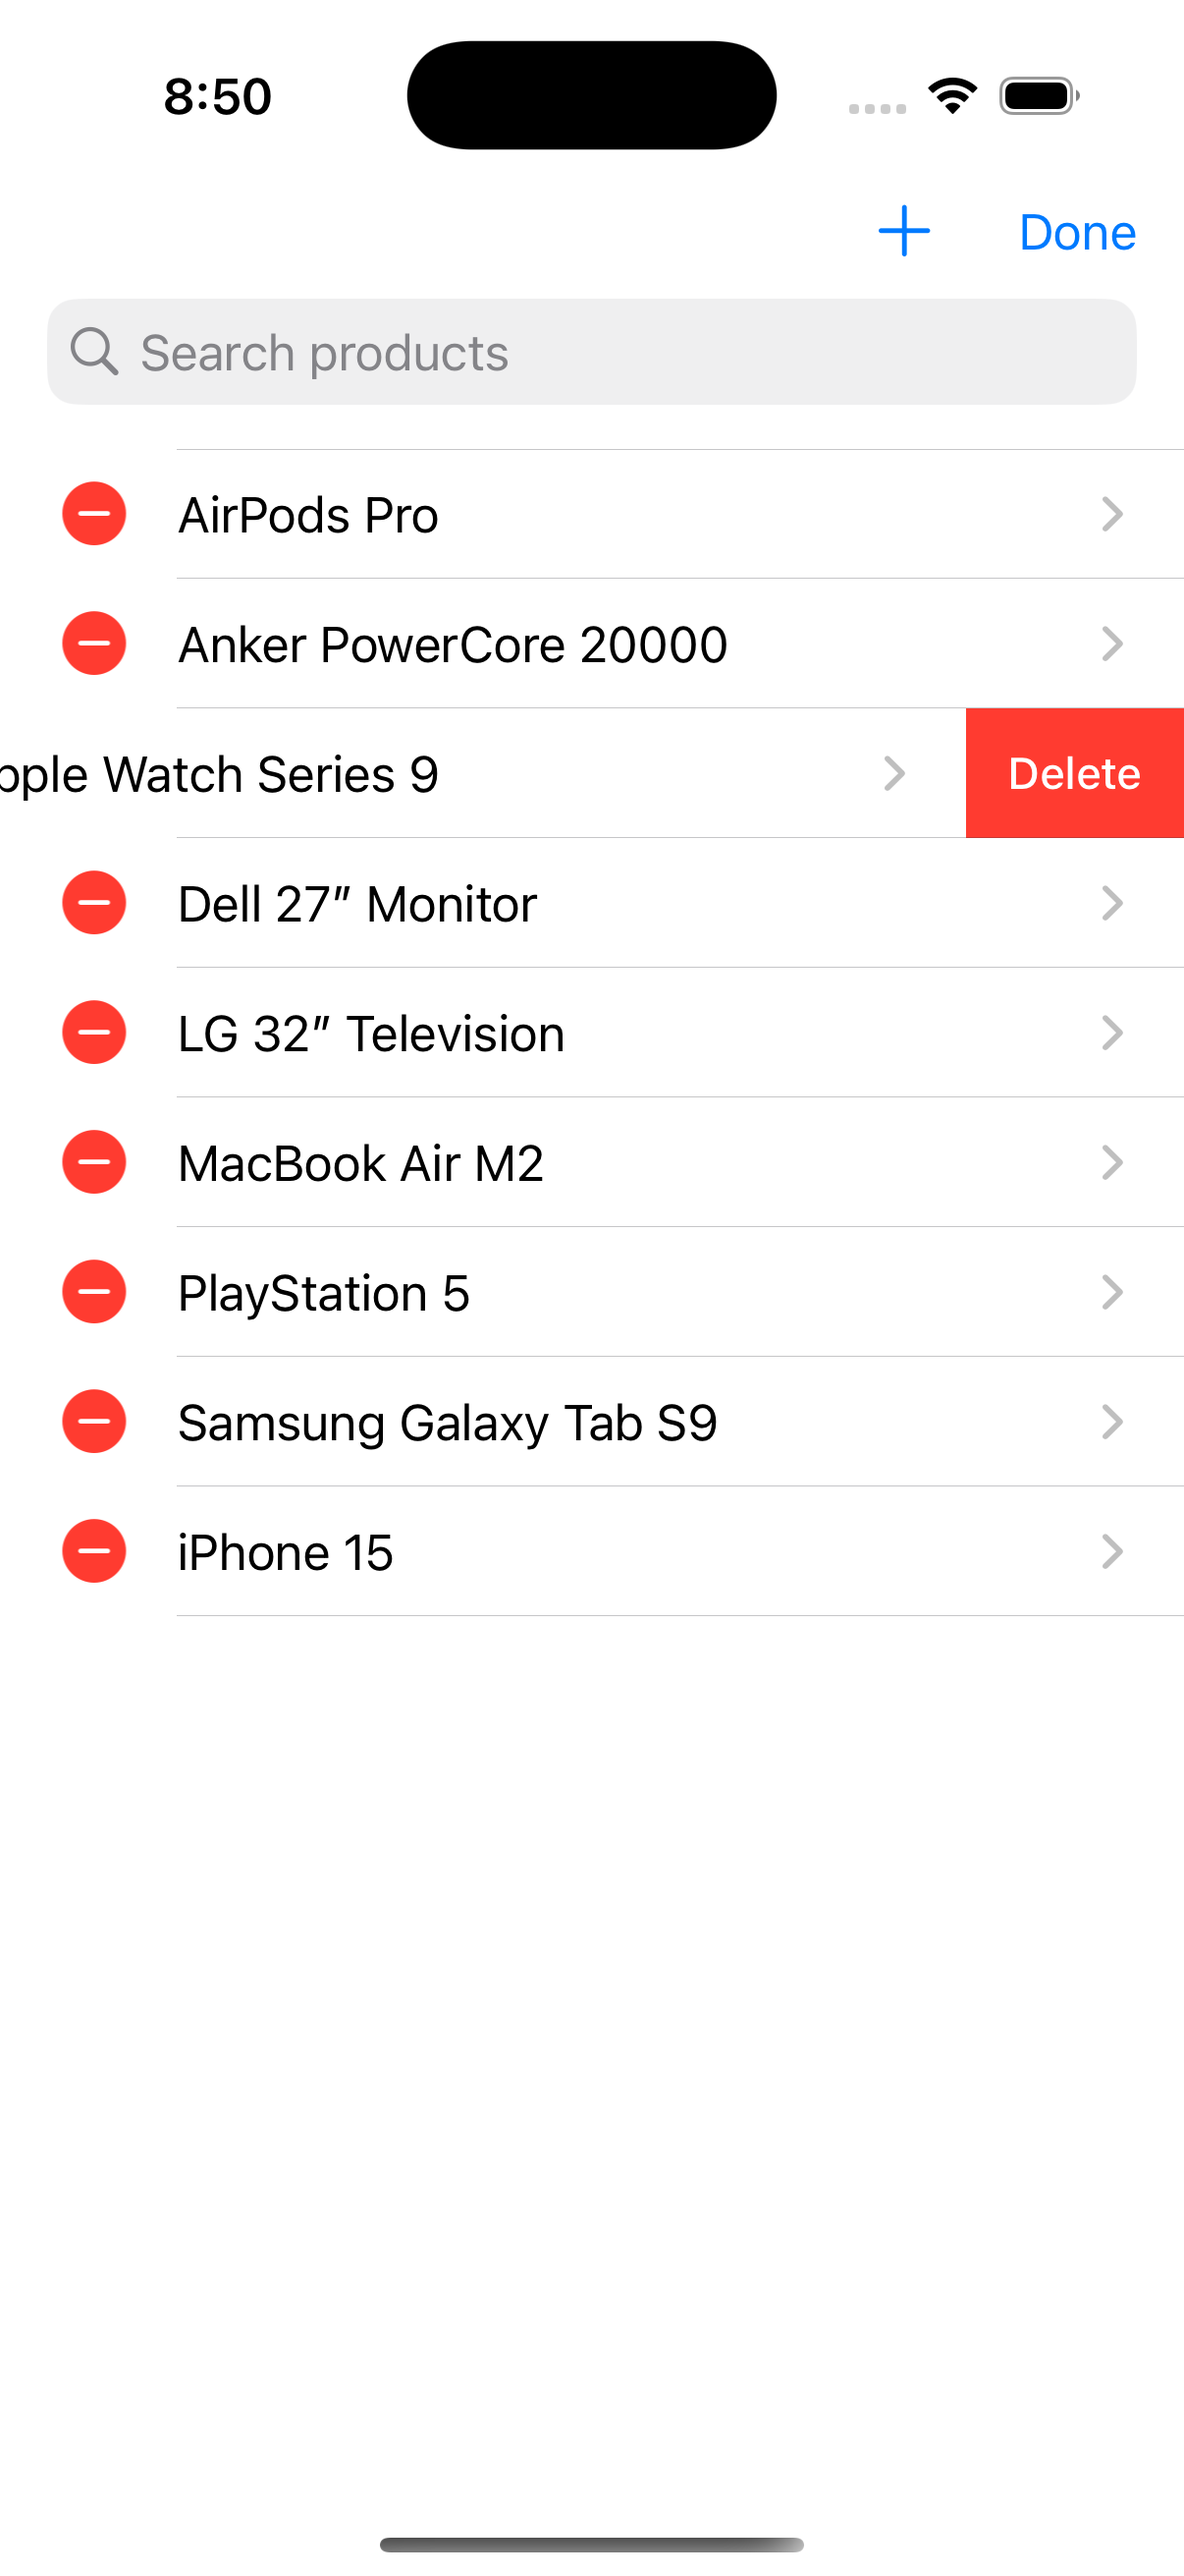
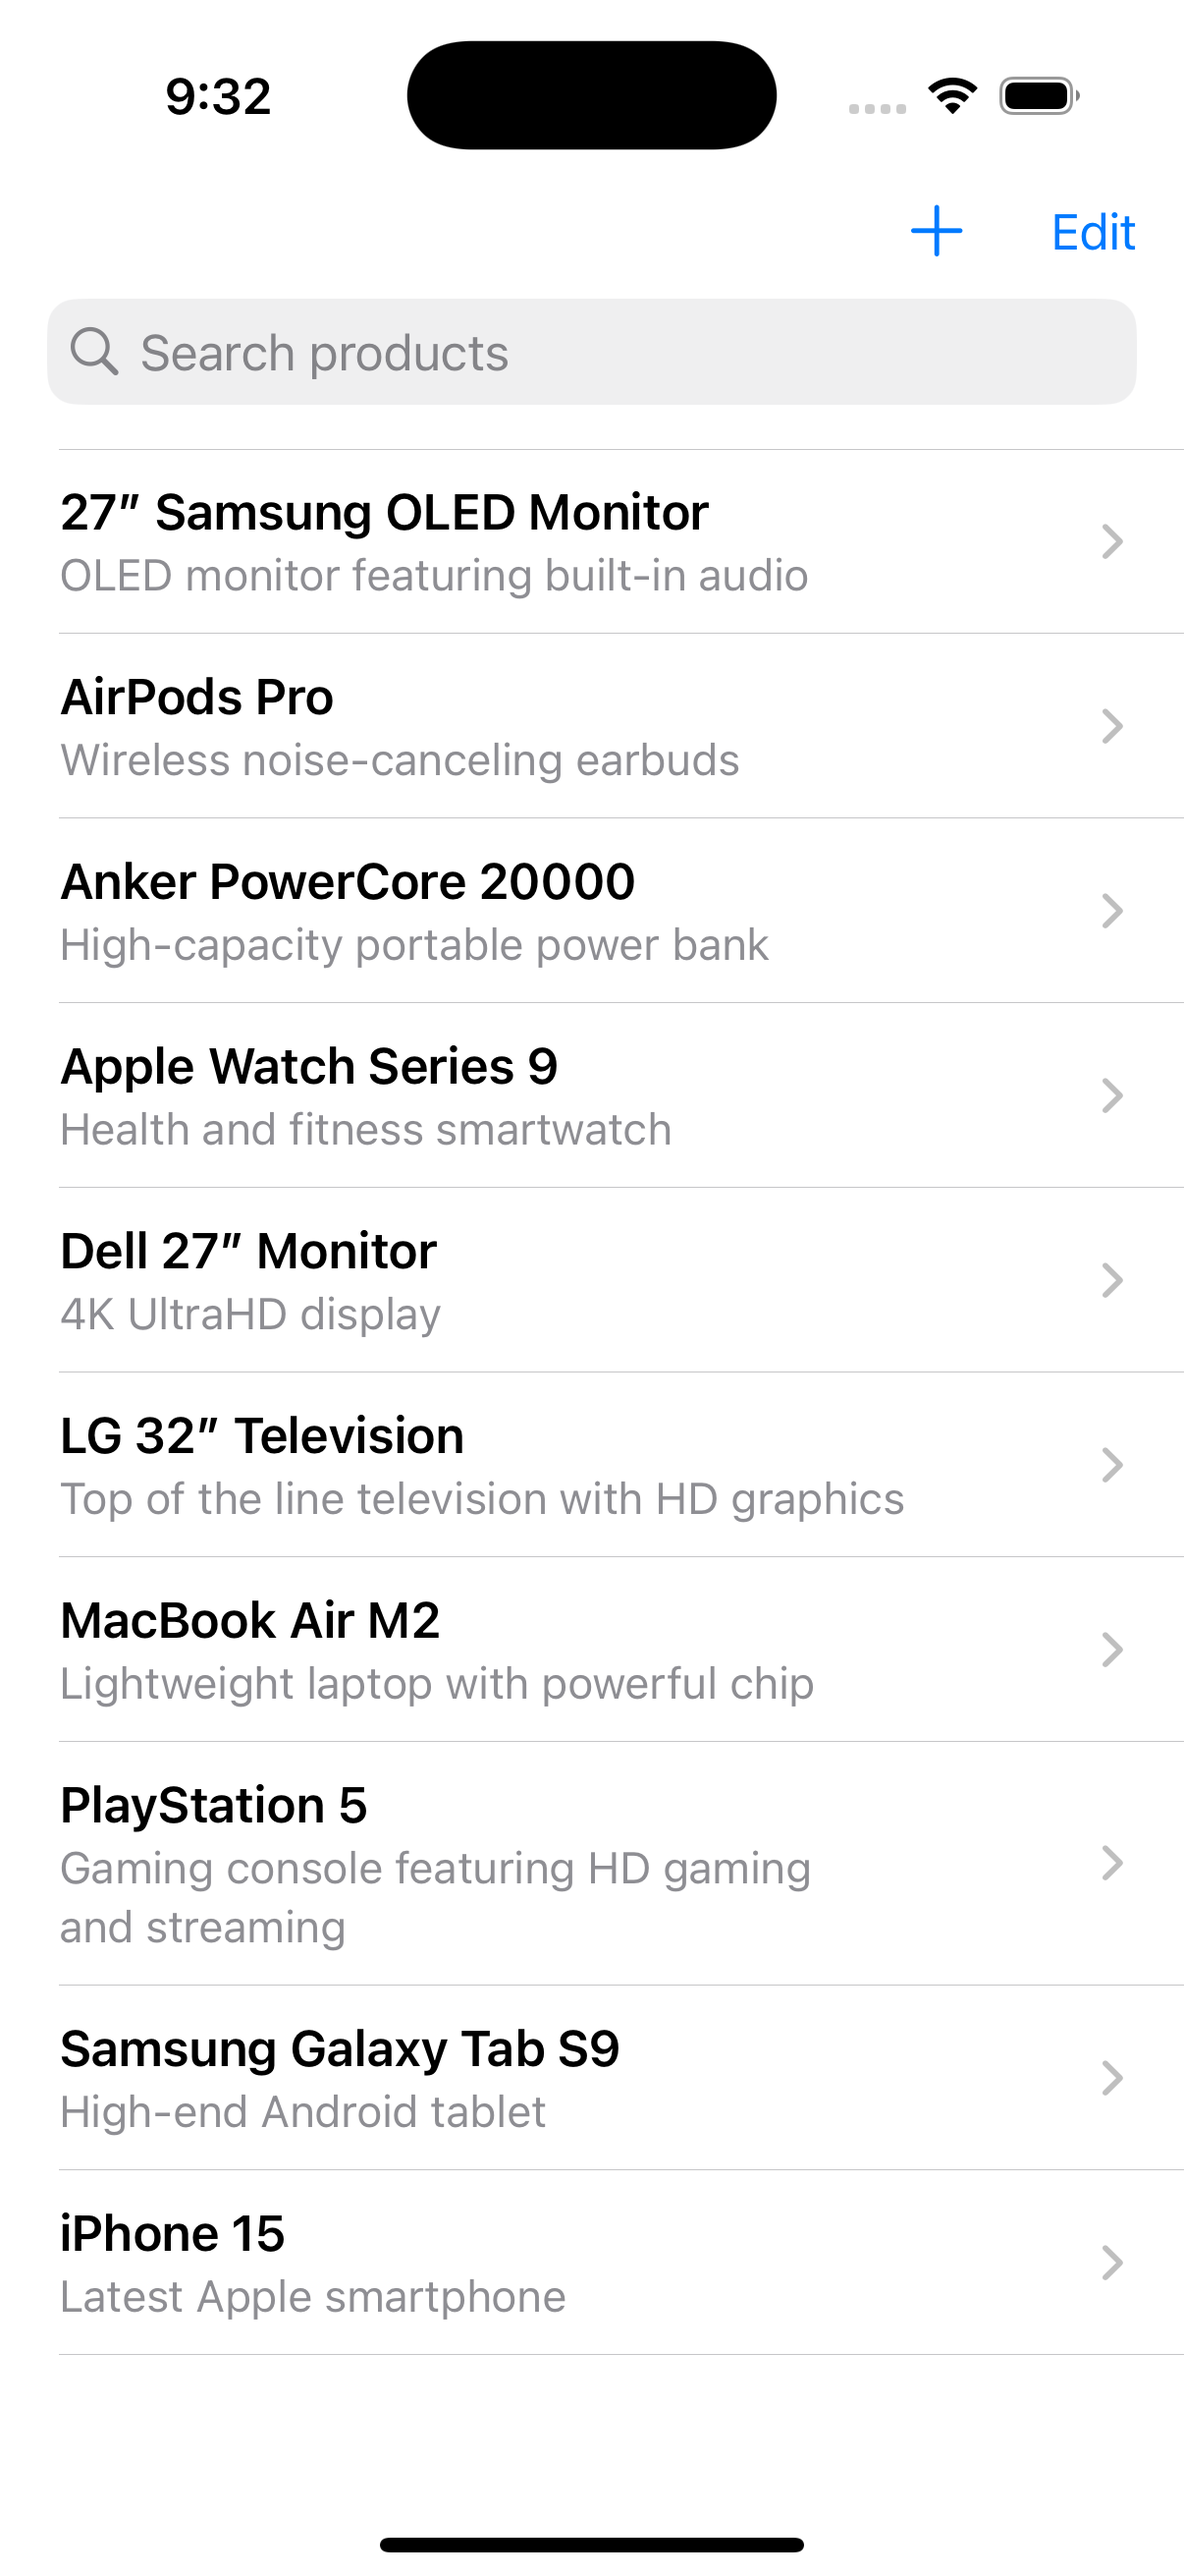
Updated produt list to include product description under product name

diff --git a/lab-test-2-app/lab-test-2-app/ContentView.swift b/lab-test-2-app/lab-test-2-app/ContentView.swift
@@ -74,7 +74,17 @@ struct ContentView: View {
                         .padding(40)
 
                     } label: {
-                        Text(product.productName!)
+                        VStack {
+                            Text(product.productName!)
+                                .font(.headline)
+                                .frame(maxWidth: .infinity, alignment: .leading)
+                            
+                            Text(product.productDescription!)
+                                .font(.subheadline)
+                                .foregroundColor(.gray)
+                                .frame(maxWidth: .infinity, alignment: .leading)
+                        }
+                        
                     }
                     .navigationBarBackButtonHidden(true) // Hide 'Back' button in navigation bar
                 }

diff --git a/README.md b/README.md
@@ -1,4 +1,12 @@
-# Lab Assignment 2
+# iOS Product Management App
 
-## Pablo Arango Gomez
-## 101153741
+A product management system implemented with th use of Swift, SwiftUI, and Core Data.
+
+
+## Screenshots
+
+![App Screenshot](./img/img_0.png)
+![App Screenshot](./img/img_1.png)
+![App Screenshot](./img/img_2.png)
+![App Screenshot](./img/img_3.png)
+![App Screenshot](./img/img_4.png)
